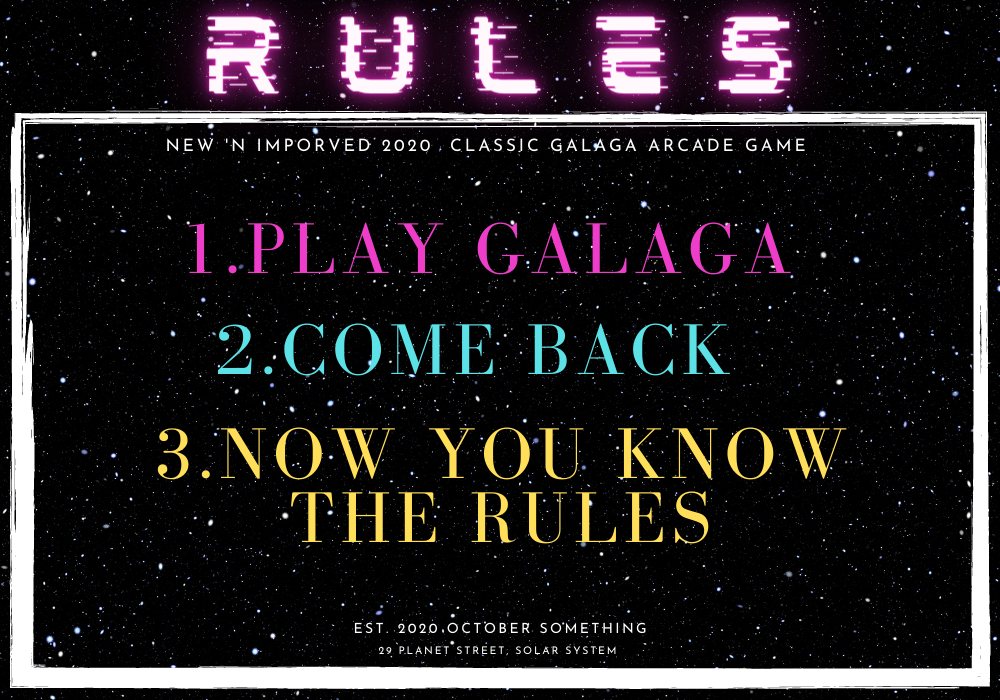
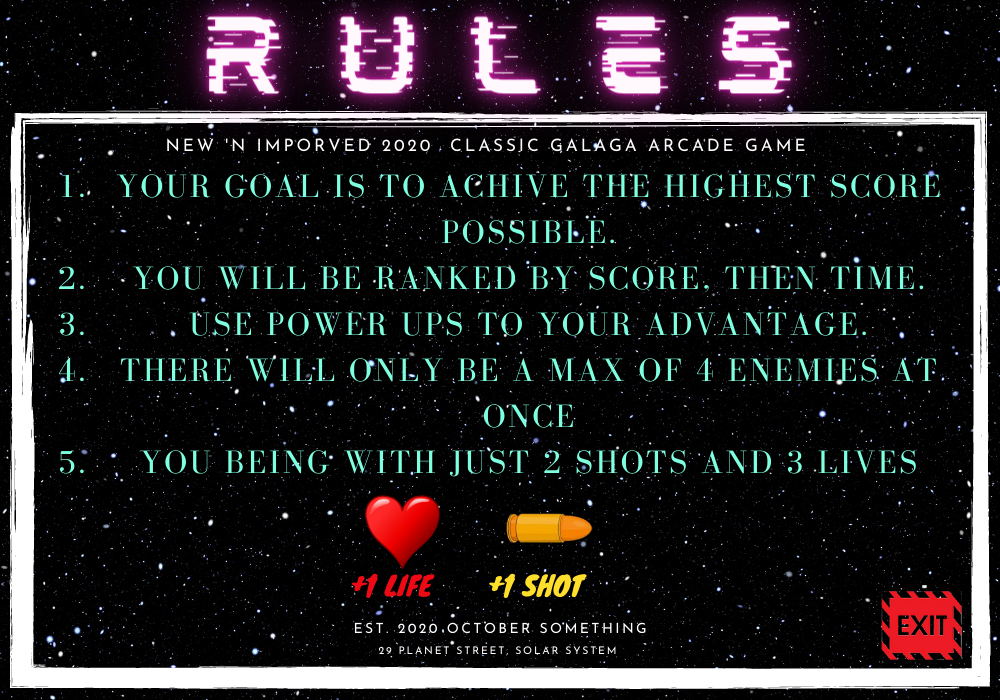
Day 9
- finished select ship screen
- making power ups
- finished rules screen

diff --git a/GalacticShowdown(FP).py b/GalacticShowdown(FP).py
@@ -10,6 +10,8 @@ lives = 5
 score = 0
 speed = 20
 
+#all sounds are from http://www.orangefreesounds.com/category/music/
+
 #timer
 endCount = 5
 delayTime = 1
@@ -19,7 +21,7 @@ print('\r\nCurrent Time - ', time.time())
 futureTime - time.time() + delayTime
 print(futureTime)
 gameTime = 0
-characterOption = '' #how to make this a variable?
+
 
 #spaceship movement
 moveLeft = False
@@ -39,7 +41,7 @@ virusRight = True
 virusStart = True
 
 #draw ship
-ship = Actor(characterOption)
+ship = Actor('spaceship1')
 ship.pos = (500,500)
 
 
@@ -113,6 +115,13 @@ button4Rect = Rect(button4Draw)
 button4Value = False  
 button4Color = 'green'
 
+#exit button from rules screen
+button9Draw = [880, 590, 85, 70]
+button9Rect = Rect(button9Draw) 
+button9Value = False  
+button9Color = 'green'
+
+
 #Vigilante button
 button5Draw = [50, 200, 180, 200]
 button5Rect = Rect(button5Draw) 
@@ -162,7 +171,7 @@ def on_key_down(key):
             
     #moved this to on key down instead of update so the player cannot hold down the shoot button
         if key == keys.SPACE:
-            if len(lazers) < 5: #you can only have 5 lazers at once on the screen
+            if len(lazers) < 3: #you can only have 5 lazers at once on the screen
                 lazers.append(Actor('lazer'))
                 lazers[-1].x = ship.x #we use -1 to take the last element in the list
                 lazers[-1].y = ship.y
@@ -208,6 +217,8 @@ def on_mouse_up(pos, button):
     global button7Color
     global button8Value
     global button8Color
+    global button9Value
+    global button9Color
     
     if gameState == 'start screen': #to make sure buttons don't overlap
         if button1Rect.collidepoint(pos):
@@ -243,53 +254,68 @@ def on_mouse_up(pos, button):
                 
     if gameState == 'characterscreen': #the ship selection screen
         if button5Rect.collidepoint(pos):
-            '''Start game button and rules button. turns out I can't have two gameState == 'startScreen's in one
-            function so I put the both together here'''
+            '''this will take the user to select a ship'''
 
             # button
             if  button5Value == True:
                 button5Color = 'light green'
                 button5Value = False
-                characterOption = "spaceship2"
+                ship.image = "spaceship2"
                 gameState = 'game'
                 #music.play_once('buttonclicked')
                 
             else:
                 button5Color == 'green'
                 button5Value = True
-                characterOption = "spaceship2"
+                ship.image = "spaceship2"
+                gameState = 'game'
+                #music.play_once('buttonclicked')
+              
+        elif button6Rect.collidepoint(pos):
+        # button
+            if  button6Value == True:
+                button6Color = 'light green'
+                button6Value = False
+                ship.image = "spaceship3"
                 gameState = 'game'
                 #music.play_once('buttonclicked')
                 
-        if button7Rect.collidepoint(pos):
+            else:
+                button6Color == 'green'
+                button6Value = True
+                ship.image = "spaceship3"
+                gameState = 'game'
+                #music.play_once('buttonclicked')
+                
+        elif button7Rect.collidepoint(pos):
             # button
             if  button7Value == True:
                 button7Color = 'light green'
                 button7Value = False
-                characterOption = "spaceship1"
+                ship.image = "spaceship1"
                 gameState = 'game'
                 #music.play_once('buttonclicked')
                 
             else:
                 button7Color == 'green'
                 button7Value = True
-                characterOption = "spaceship1"
+                ship.image = "spaceship1"
                 gameState = 'game'
                 #music.play_once('buttonclicked')
                 
-        if button8Rect.collidepoint(pos):
+        elif button8Rect.collidepoint(pos):
             # button
             if  button8Value == True:
                 button8Color = 'light green'
                 button8Value = False
-                characterOption = "spaceship4"
+                ship.image = "spaceship4"
                 gameState = 'game'
                 #music.play_once('buttonclicked')
                 
             else:
                 button8Color == 'green'
                 button8Value = True
-                characterOption = "spaceship4"
+                ship.image = "spaceship4"
                 gameState = 'game'
                 #music.play_once('buttonclicked')
                 
@@ -331,9 +357,9 @@ def on_mouse_up(pos, button):
                 moveBottomRight = False
                 ship.pos = (500,500)
                 
-        
+    if button3Rect.collidepoint(pos):
         #leaderboard button
-        elif button3Rect.collidepoint(pos):
+        if button3Rect.collidepoint(pos):
             if  button3Value == True:
                 button3Color = (255, 250, 205)
                 button3Value = False
@@ -345,6 +371,19 @@ def on_mouse_up(pos, button):
                 gameState = 'rules'
                 #music.play_once('buttonclicked')
                 
+    if button9Rect.collidepoint(pos):
+        #leaderboard button
+        if button9Rect.collidepoint(pos):
+            if  button9Value == True:
+                button9Color = (255, 250, 205)
+                button9Value = False
+                gameState = 'start screen'
+                #music.play_once('buttonclicked')
+
+            else:
+                button9Value = True
+                gameState = 'start screen'
+                #music.play_once('buttonclicked')
                 
     
 def update():
@@ -425,6 +464,7 @@ def update():
                     score += 100
                     lazers.remove(lazer) #remove the lazer and virus after hitting
                     viruses.remove(virus)
+                    music.set_volume(0.2)
                     music.play_once("enemy hit")
                     if len(viruses) < 3: # makes sure there can only be a maximun of 4 viruses at once
                         viruses.append(Actor('virus', (random.randint(200,800), random.randint(0,200))))
@@ -437,6 +477,7 @@ def update():
                 if ship.colliderect(Elazer):
                     lives -= 1
                     Elazers.remove(Elazer)
+                    music.set_volume(0.2)
                     music.play_once("ship hit")
                     if lives < 1:
                         music.play_once("gameover sound")
@@ -470,6 +511,7 @@ def update():
                 Elazers.append(Actor('elazer'))
                 Elazers[-1].x = virus.x
                 Elazers[-1].y = virus.y
+                music.set_volume(0.2)
                 music.play_once("elazer sound")
 
 def draw():
@@ -502,16 +544,16 @@ def draw():
     
     elif gameState == 'rules':
         rulescreen.draw()
+        #screen.draw.filled_rect(button9Rect, button9Color)
         
     elif gameState == 'characterscreen':
         characterscreen.draw()
-        screen.draw.filled_rect(button5Rect, button5Color)
-        screen.draw.filled_rect(button6Rect, button6Color)
-        screen.draw.filled_rect(button7Rect, button7Color)
-        screen.draw.filled_rect(button8Rect, button8Color)
+        
             
     elif gameState == 'end':
         endscreen.draw()
+        screen.draw.text (str((gameTime)), center=(800, 315), color="purple", fontsize = 110)
+        screen.draw.text (str((score)), center=(800, 420), color="beige", fontsize = 110)
         #screen.draw.filled_rect(button2Rect, button2Color)
         #screen.draw.filled_rect(button4Rect, button4Color)   
     
